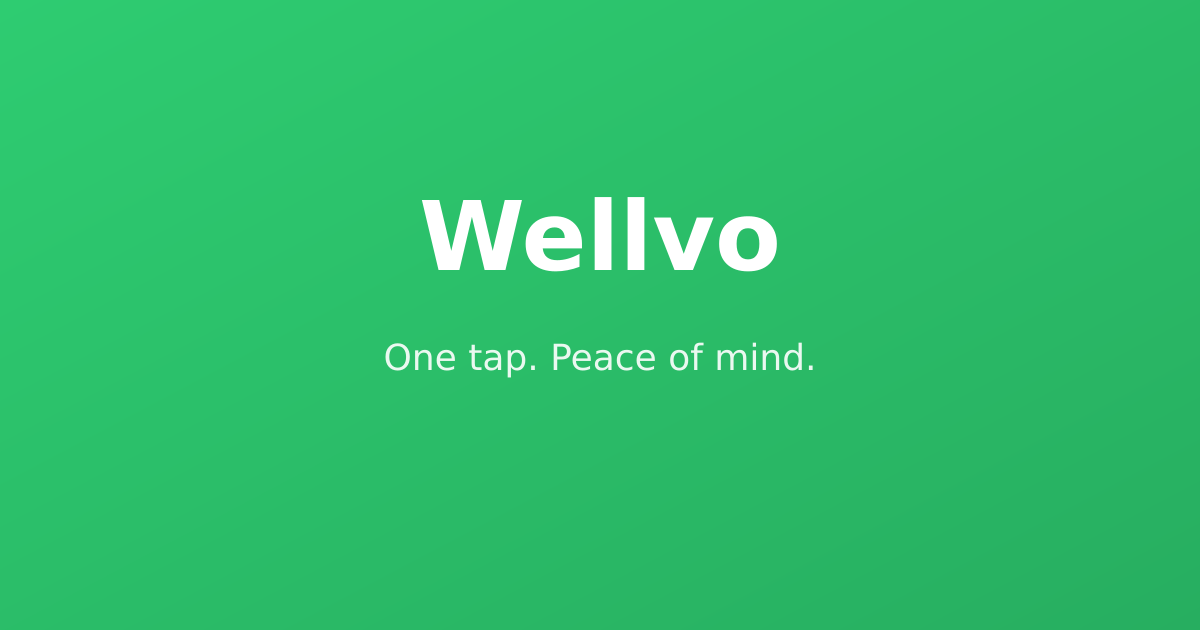
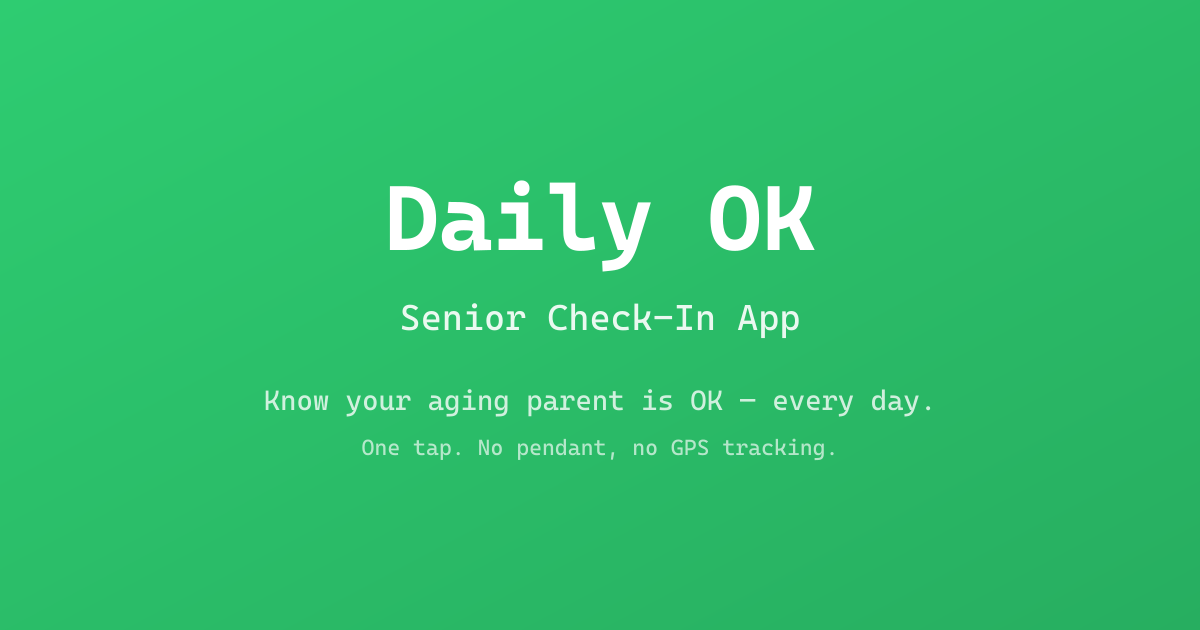
SEO: align ASO docs + imagery to seniors-led identity
- ASO_STRATEGY.md: status Proposed → Approved (seniors-led, 2026-06-27); §2
  decision marked approved with pointer to docs/SEO_STRATEGY.md.
- APP_STORE_CONNECT setup: App Store description opening rewritten senior-first
  (first line now matches the canonical entity sentence); teen kept secondary.
- og-image.svg + generate-icons.js overlay + regenerated og-image.png: social
  card now reads "Senior Check-In App / Know your aging parent is OK".
- manifest.json: name + description senior-led.
- SEO.tsx: added og:image:alt + twitter:image:alt with a descriptive,
  senior-led alt string.

Typecheck passes.

Claude-Session: https://claude.ai/code/session_018ExUaAodYpDFLyneHGPB1n

Changed region(s): [[0.2158, 0.4825, 0.7708, 0.6635], [0.3083, 0.2714, 0.6783, 0.4524], [0.3083, 0.6937, 0.7092, 0.7238]]

diff --git a/website/scripts/generate-icons.js b/website/scripts/generate-icons.js
@@ -39,8 +39,10 @@ async function generateOgImage() {
         </linearGradient>
       </defs>
       <rect width="${width}" height="${height}" fill="url(#bg)" />
-      <text x="600" y="270" font-family="system-ui, sans-serif" font-size="96" font-weight="bold" text-anchor="middle" fill="white">Daily OK</text>
-      <text x="600" y="370" font-family="system-ui, sans-serif" font-size="36" text-anchor="middle" fill="rgba(255,255,255,0.9)">One tap. Peace of mind.</text>
+      <text x="600" y="250" font-family="system-ui, sans-serif" font-size="92" font-weight="bold" text-anchor="middle" fill="white">Daily OK</text>
+      <text x="600" y="330" font-family="system-ui, sans-serif" font-size="36" text-anchor="middle" fill="rgba(255,255,255,0.9)">Senior Check-In App</text>
+      <text x="600" y="410" font-family="system-ui, sans-serif" font-size="28" text-anchor="middle" fill="rgba(255,255,255,0.78)">Know your aging parent is OK — every day.</text>
+      <text x="600" y="455" font-family="system-ui, sans-serif" font-size="22" text-anchor="middle" fill="rgba(255,255,255,0.65)">One tap. No pendant, no GPS tracking.</text>
     </svg>
   `;
 

diff --git a/website/src/components/SEO.tsx b/website/src/components/SEO.tsx
@@ -3,6 +3,8 @@ import { Helmet } from 'react-helmet-async'
 const APP_STORE_URL = 'https://apps.apple.com/us/app/dailyok-daily-check-in/id6760836697'
 const SITE_URL = 'https://dailyok.net'
 const DEFAULT_IMAGE = `${SITE_URL}/og-image.png`
+const DEFAULT_IMAGE_ALT =
+  'Daily OK — the senior check-in app: a once-a-day "I\'m OK" from your aging parent, with alerts if they miss it.'
 
 interface SEOProps {
   title: string
@@ -37,6 +39,7 @@ export default function SEO({
       <meta property="og:type" content={ogType} />
       <meta property="og:url" content={fullUrl} />
       <meta property="og:image" content={DEFAULT_IMAGE} />
+      <meta property="og:image:alt" content={DEFAULT_IMAGE_ALT} />
       <meta property="og:site_name" content="Daily OK" />
 
       {/* Twitter */}
@@ -44,6 +47,7 @@ export default function SEO({
       <meta name="twitter:title" content={fullTitle} />
       <meta name="twitter:description" content={description} />
       <meta name="twitter:image" content={DEFAULT_IMAGE} />
+      <meta name="twitter:image:alt" content={DEFAULT_IMAGE_ALT} />
 
       {/* Structured Data */}
       {jsonLd && (

diff --git a/docs/ASO_STRATEGY.md b/docs/ASO_STRATEGY.md
@@ -1,8 +1,8 @@
 # Daily OK — iOS App Store Ranking & ASO Strategy
 
 **Owner:** Pearson Media LLC
-**Status:** Proposed (pending approval of repositioning decision in §2)
-**Last updated:** 2026-06-12
+**Status:** Approved — seniors-led (decision 2026-06-27; see `docs/SEO_STRATEGY.md`). Web + AI surfaces now match this metadata direction.
+**Last updated:** 2026-06-27
 **Goal:** Increase App Store **impressions** and organic installs by ranking for more of the searches our buyers actually type, and by converting more of the impressions we already get.
 
 > This plan **supersedes** the metadata values in `docs/APP_STORE_CONNECT_AND_SUPABASE_SETUP.md §1.3` once approved. None of it changes the app binary except the in-app review prompt (§6) and optional Custom Product Page deep links (§5), which ride the normal `develop → release` flow. Everything else is App Store Connect configuration.
@@ -34,7 +34,7 @@ The product serves seniors, teens, and any loved one. **ASO metadata can't be al
 - **Recommended:** lead the **name + subtitle** with senior/elderly/safety language. Keep teens/couples/long-distance in the **description body** and dedicated **Custom Product Pages** (§5), so we lose no positioning — we just stop diluting the highest-weight fields.
 - **Alternative (if leadership wants to stay broad):** use the broad name variant in §3 and accept lower search relevance per term.
 
-Everything below assumes the recommended path. **This is the one call that needs sign-off before we ship metadata.**
+Everything below assumes the recommended path. **Decision (2026-06-27): approved — seniors-led.** The web marketing site, `llms.txt`/`llms-full.txt`, structured data, and `robots.txt` were transitioned to match (see `docs/SEO_STRATEGY.md`); teen/couples positioning is retained in the description body, Custom Product Pages, and the still-indexed `/child-safety` web funnel.
 
 ---
 

diff --git a/docs/APP_STORE_CONNECT_AND_SUPABASE_SETUP.md b/docs/APP_STORE_CONNECT_AND_SUPABASE_SETUP.md
@@ -69,9 +69,9 @@ back into the fields below and submit a metadata-only update (reusing the build)
 #### App Store Description
 
 ```
-Know your loved ones are OK — every single day.
+Know your aging parent is OK — every single day.
 
-Daily OK is the simplest way to stay connected to the people you care about most. Set up a daily check-in for your aging parent, teenager, or anyone you worry about. They get one notification. They tap one button. You get peace of mind.
+Daily OK is the simplest senior check-in app. Set up a once-a-day "I'm OK" for your aging parent — they tap one big button (or reply right from the notification), and you get peace of mind. If they miss a check-in, escalating alerts make sure someone knows. No pendant, no GPS tracking, no cameras. The same gentle daily check-in also works for a teenager or anyone else you worry about.
 
 HOW IT WORKS
 
